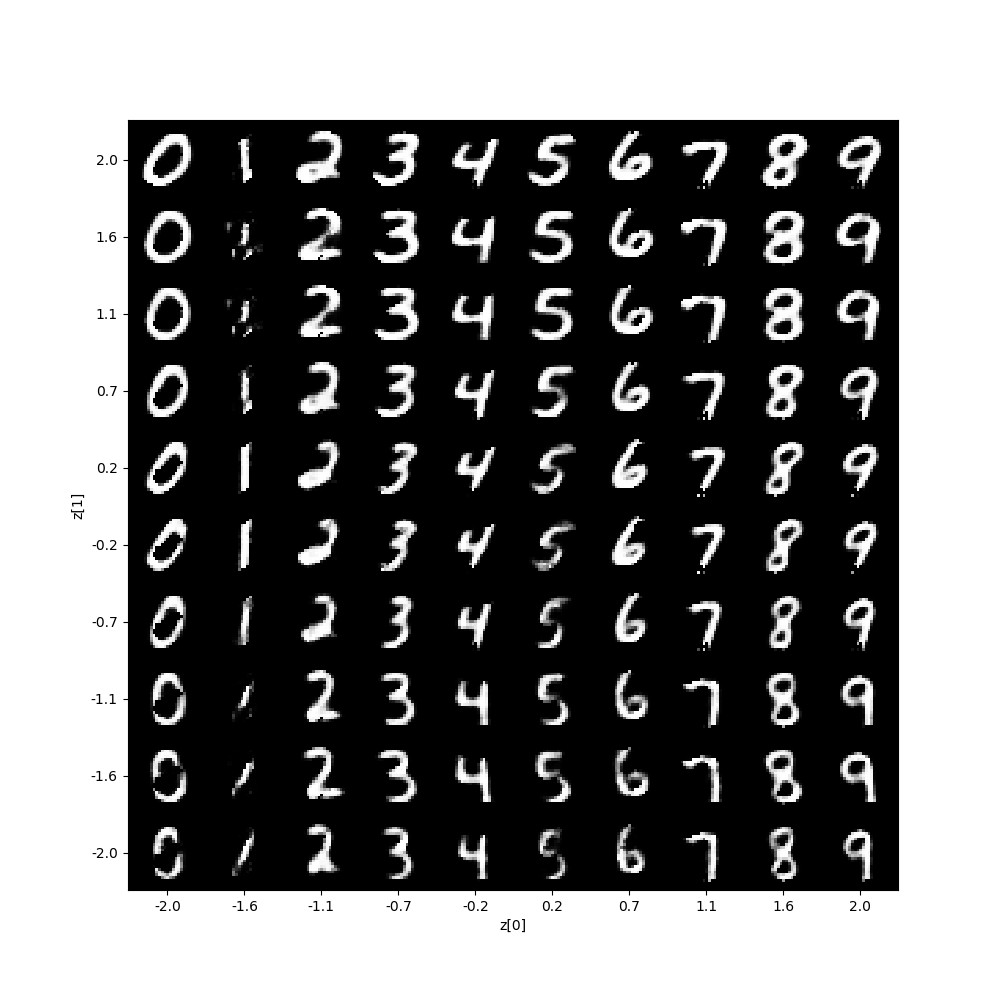
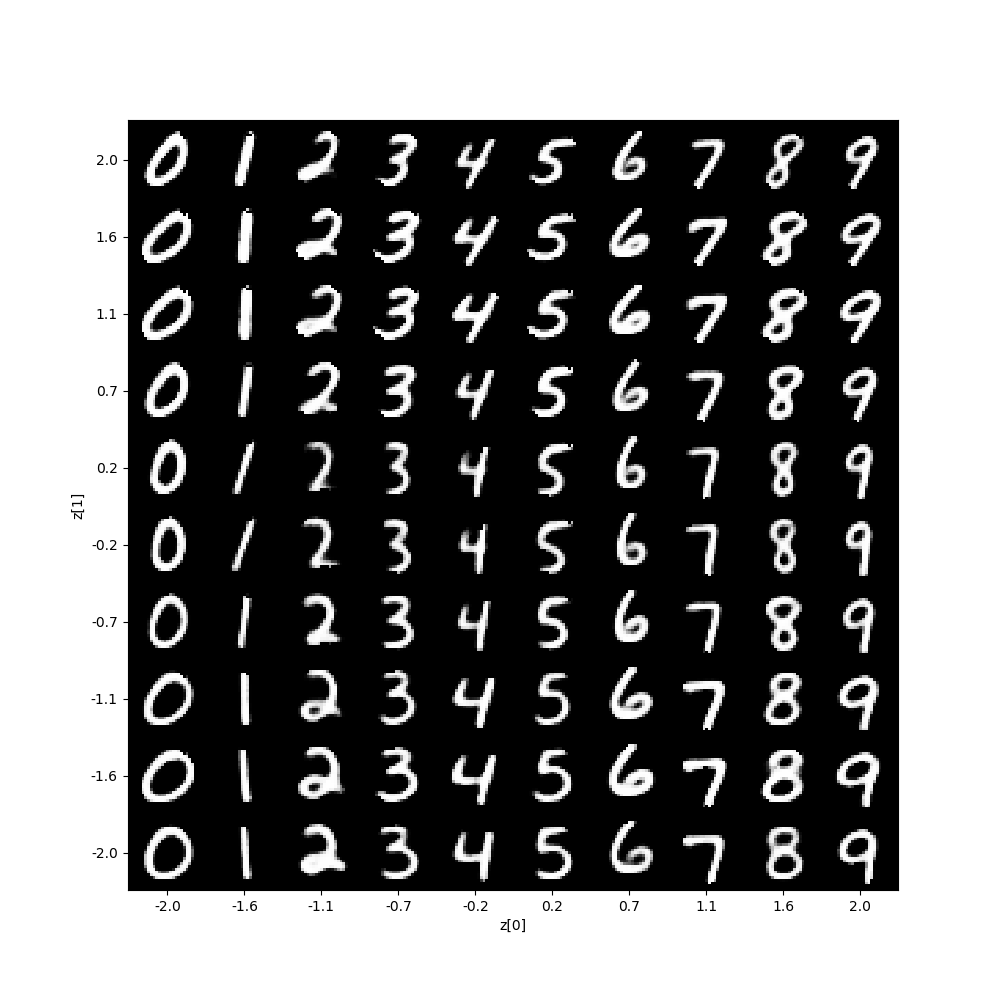
better digits

diff --git a/vae_classes.py b/vae_classes.py
@@ -51,10 +51,10 @@ class Sampling(Add):
 # network parameters
 input_shape = (original_dim, )
 
-intermediate_dim = 32
+intermediate_dim = 128
 batch_size = 128
 latent_dim = 2
-epochs = 50
+epochs = 5000
 classes = 10
 
 
